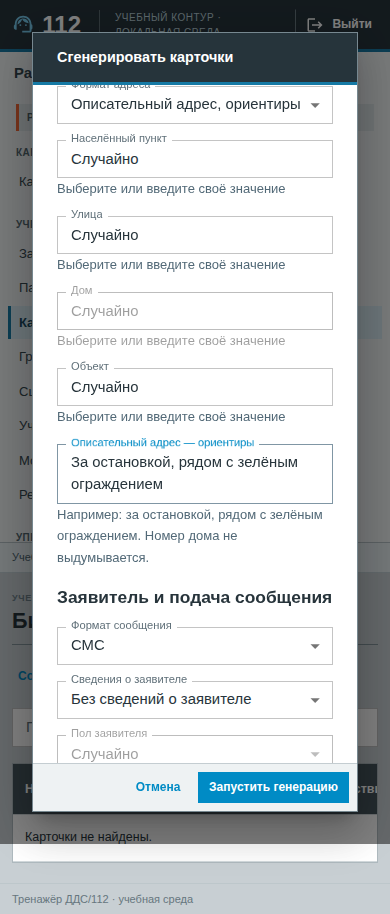
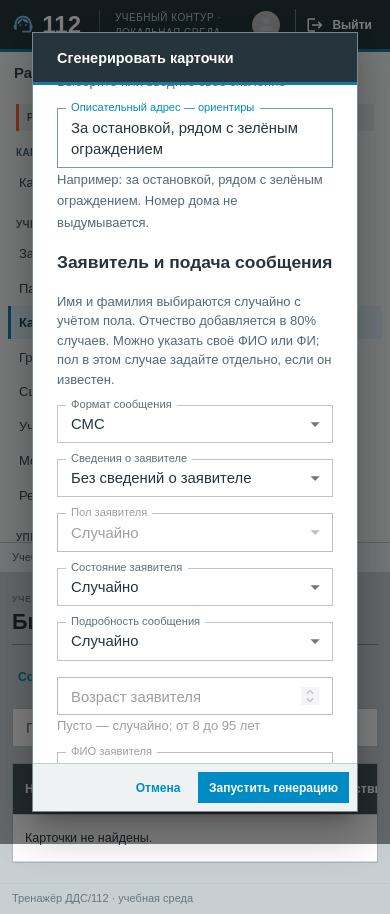
fix: align generation form and caller data with ARM presentation

diff --git a/112-frontend/e2e/generation-delivery.spec.ts b/112-frontend/e2e/generation-delivery.spec.ts
@@ -1,0 +1,58 @@
+import { test, expect } from "./auth-fixture";
+import { mockBusiness } from "./business-fixture";
+
+test("incoming caller ID is in the ARM header and clarifications form a separate paragraph", async ({
+  page,
+}, info) => {
+  const fixture = await mockBusiness(page);
+  const attempt = fixture.currentAttempt();
+  attempt.classifier_entry.name = "103";
+  attempt.recipient_services[0].name = "Скорая медицинская помощь";
+  attempt.caller_message =
+    "Я упала и не могу подняться, мне больно. Помогите, пожалуйста. Это Москва, Лесная улица, д. 12. Меня зовут Анна Иванова.\n\nВ ходе уточнения выяснено:\nВозраст заявителя — 34 года. Место происшествия — двор.";
+  Object.assign(attempt.card.data, {
+    caller_name: null,
+    caller_phone: null,
+    caller_details: { callerId: "+7 (000) 000-12-34" },
+    description: null,
+    address_text: null,
+    address_details: {},
+  });
+  await page.route("**/api/v1/telephony/attempts/attempt", (r) =>
+    r.fulfill({ json: { enabled: false, station: null, calls: [] } }),
+  );
+  await page.goto("/login");
+  await page.getByLabel("Логин", { exact: true }).fill("student1");
+  await page.getByLabel("Пароль", { exact: true }).fill("test-password");
+  await page.getByRole("button", { name: "Войти", exact: true }).click();
+  await expect(page).toHaveURL(/student$/);
+  await page.goto("/student/sessions/lesson");
+  await page
+    .getByRole("button", { name: "Продолжить заполнение", exact: true })
+    .click();
+  await expect(page.locator(".arm-card-dialog .MuiDialog-container")).toHaveCSS(
+    "opacity",
+    "1",
+  );
+  const aon = page.getByLabel("АОН", { exact: true });
+  await expect
+    .poll(async () => (await aon.inputValue()).replace(/\D/g, ""))
+    .toBe("70000001234");
+  await expect(page.getByLabel("Предоставленный", { exact: true })).toHaveValue(
+    "",
+  );
+  const condition = page.locator(".training-panel__row > div").first();
+  await expect(condition).toContainText("В ходе уточнения выяснено:");
+  await expect(condition).toHaveCSS("white-space", "pre-wrap");
+  await expect(condition).not.toContainText("000-12-34");
+  await expect(condition).not.toContainText("Заявитель: женщина");
+  await page.screenshot({
+    path: info.outputPath("arm.png"),
+    animations: "disabled",
+  });
+  await page.setViewportSize({ width: 390, height: 844 });
+  await page.screenshot({
+    path: info.outputPath("arm-mobile.png"),
+    animations: "disabled",
+  });
+});

diff --git a/112-frontend/e2e/generation-message-formats.spec.ts b/112-frontend/e2e/generation-message-formats.spec.ts
@@ -22,9 +22,13 @@ test("teacher chooses anonymous SMS and descriptive address without conflicting 
   await page.getByLabel("Логин", { exact: true }).fill("teacher");
   await page.getByLabel("Пароль", { exact: true }).fill("password");
   await page.getByRole("button", { name: "Войти", exact: true }).click();
+  await expect(page).toHaveURL(/teacher$/);
   await page.goto("/cards");
   await page.getByRole("button", { name: "Сгенерировать карточки" }).click();
   const dialog = page.getByRole("dialog");
+  await expect(
+    dialog.getByRole("combobox", { name: "Время суток", exact: true }),
+  ).toHaveCount(0);
   const choose = async (label: string, value: string) => {
     await dialog.getByRole("combobox", { name: label, exact: true }).click();
     await page.getByRole("option", { name: value, exact: true }).click();
@@ -84,5 +88,6 @@ test("teacher chooses anonymous SMS and descriptive address without conflicting 
   });
   expect(parameters).not.toHaveProperty("no_contact");
   expect(parameters).not.toHaveProperty("call_dropped");
+  expect(parameters).not.toHaveProperty("time_of_day");
   expect(errors).toEqual([]);
 });

diff --git a/112-frontend/src/entities/training/types/generation.ts b/112-frontend/src/entities/training/types/generation.ts
@@ -24,7 +24,6 @@ export interface GenerationParameters {
   structure?: string | null;
   location?: MapPoint | null;
   object?: string | null;
-  time_of_day?: "morning" | "day" | "evening" | "night" | null;
   caller_state?: "calm" | "worried" | "panicked" | null;
   detail_level?: "brief" | "normal" | "detailed" | null;
   feature_answers?: Record<string, FeatureValue>;
@@ -52,7 +51,6 @@ export interface GenerationOptions {
   object: string[];
   patronymic_probability: number;
   gender: { value: string; label: string }[];
-  time_of_day: { value: string; label: string }[];
   caller_state: { value: string; label: string }[];
   detail_level: { value: string; label: string }[];
   message_format: { value: string; label: string }[];

diff --git a/112-frontend/src/features/card-generation/ui/GenerationDetails.tsx b/112-frontend/src/features/card-generation/ui/GenerationDetails.tsx
@@ -72,7 +72,6 @@ export function GenerationDetails({ model }: CardGenerationPanelProps) {
             ["message_format", "Формат сообщения"],
             ["caller_information", "Сведения о заявителе"],
             ["gender", "Пол заявителя"],
-            ["time_of_day", "Время суток"],
             ["caller_state", "Состояние заявителя"],
             ["detail_level", "Подробность сообщения"],
           ] as const

diff --git a/112-frontend/src/features/card-authoring/lib/buildCardTemplateInput.ts b/112-frontend/src/features/card-authoring/lib/buildCardTemplateInput.ts
@@ -68,7 +68,10 @@ export const buildCardTemplateInput: CardTemplatePayloadBuilder = ({
         ...flags,
         ...(silent
           ? { callerGender: null, callerAge: null, callerStatus: null }
-          : {}),
+          : {
+              callerGender: person.gender || null,
+              callerAge: person.age || null,
+            }),
       },
     },
   },

diff --git a/112-frontend/docs/screenshots/generation-delivery/README.md b/112-frontend/docs/screenshots/generation-delivery/README.md
@@ -1,0 +1,10 @@
+# Условие и АОН — 26.09.2026
+
+Firefox в Docker, API-фикстуры `e2e/generation-delivery.spec.ts`.
+АОН показан в существующем поле верхней панели; предоставленный номер пустой.
+Условие содержит монолог и отдельный абзац уточнений без объявления пола,
+времени суток или телефона. Дизайн АРМ сохранён. Desktop/mobile лично просмотрены.
+
+Форма без настройки времени суток: `../message-formats/settings.png` и `mobile.png`.
+Начальное заполнение АОН и сохранение эталонных данных дополнительно проверены
+реальными API-тестами на отдельной PostgreSQL.
